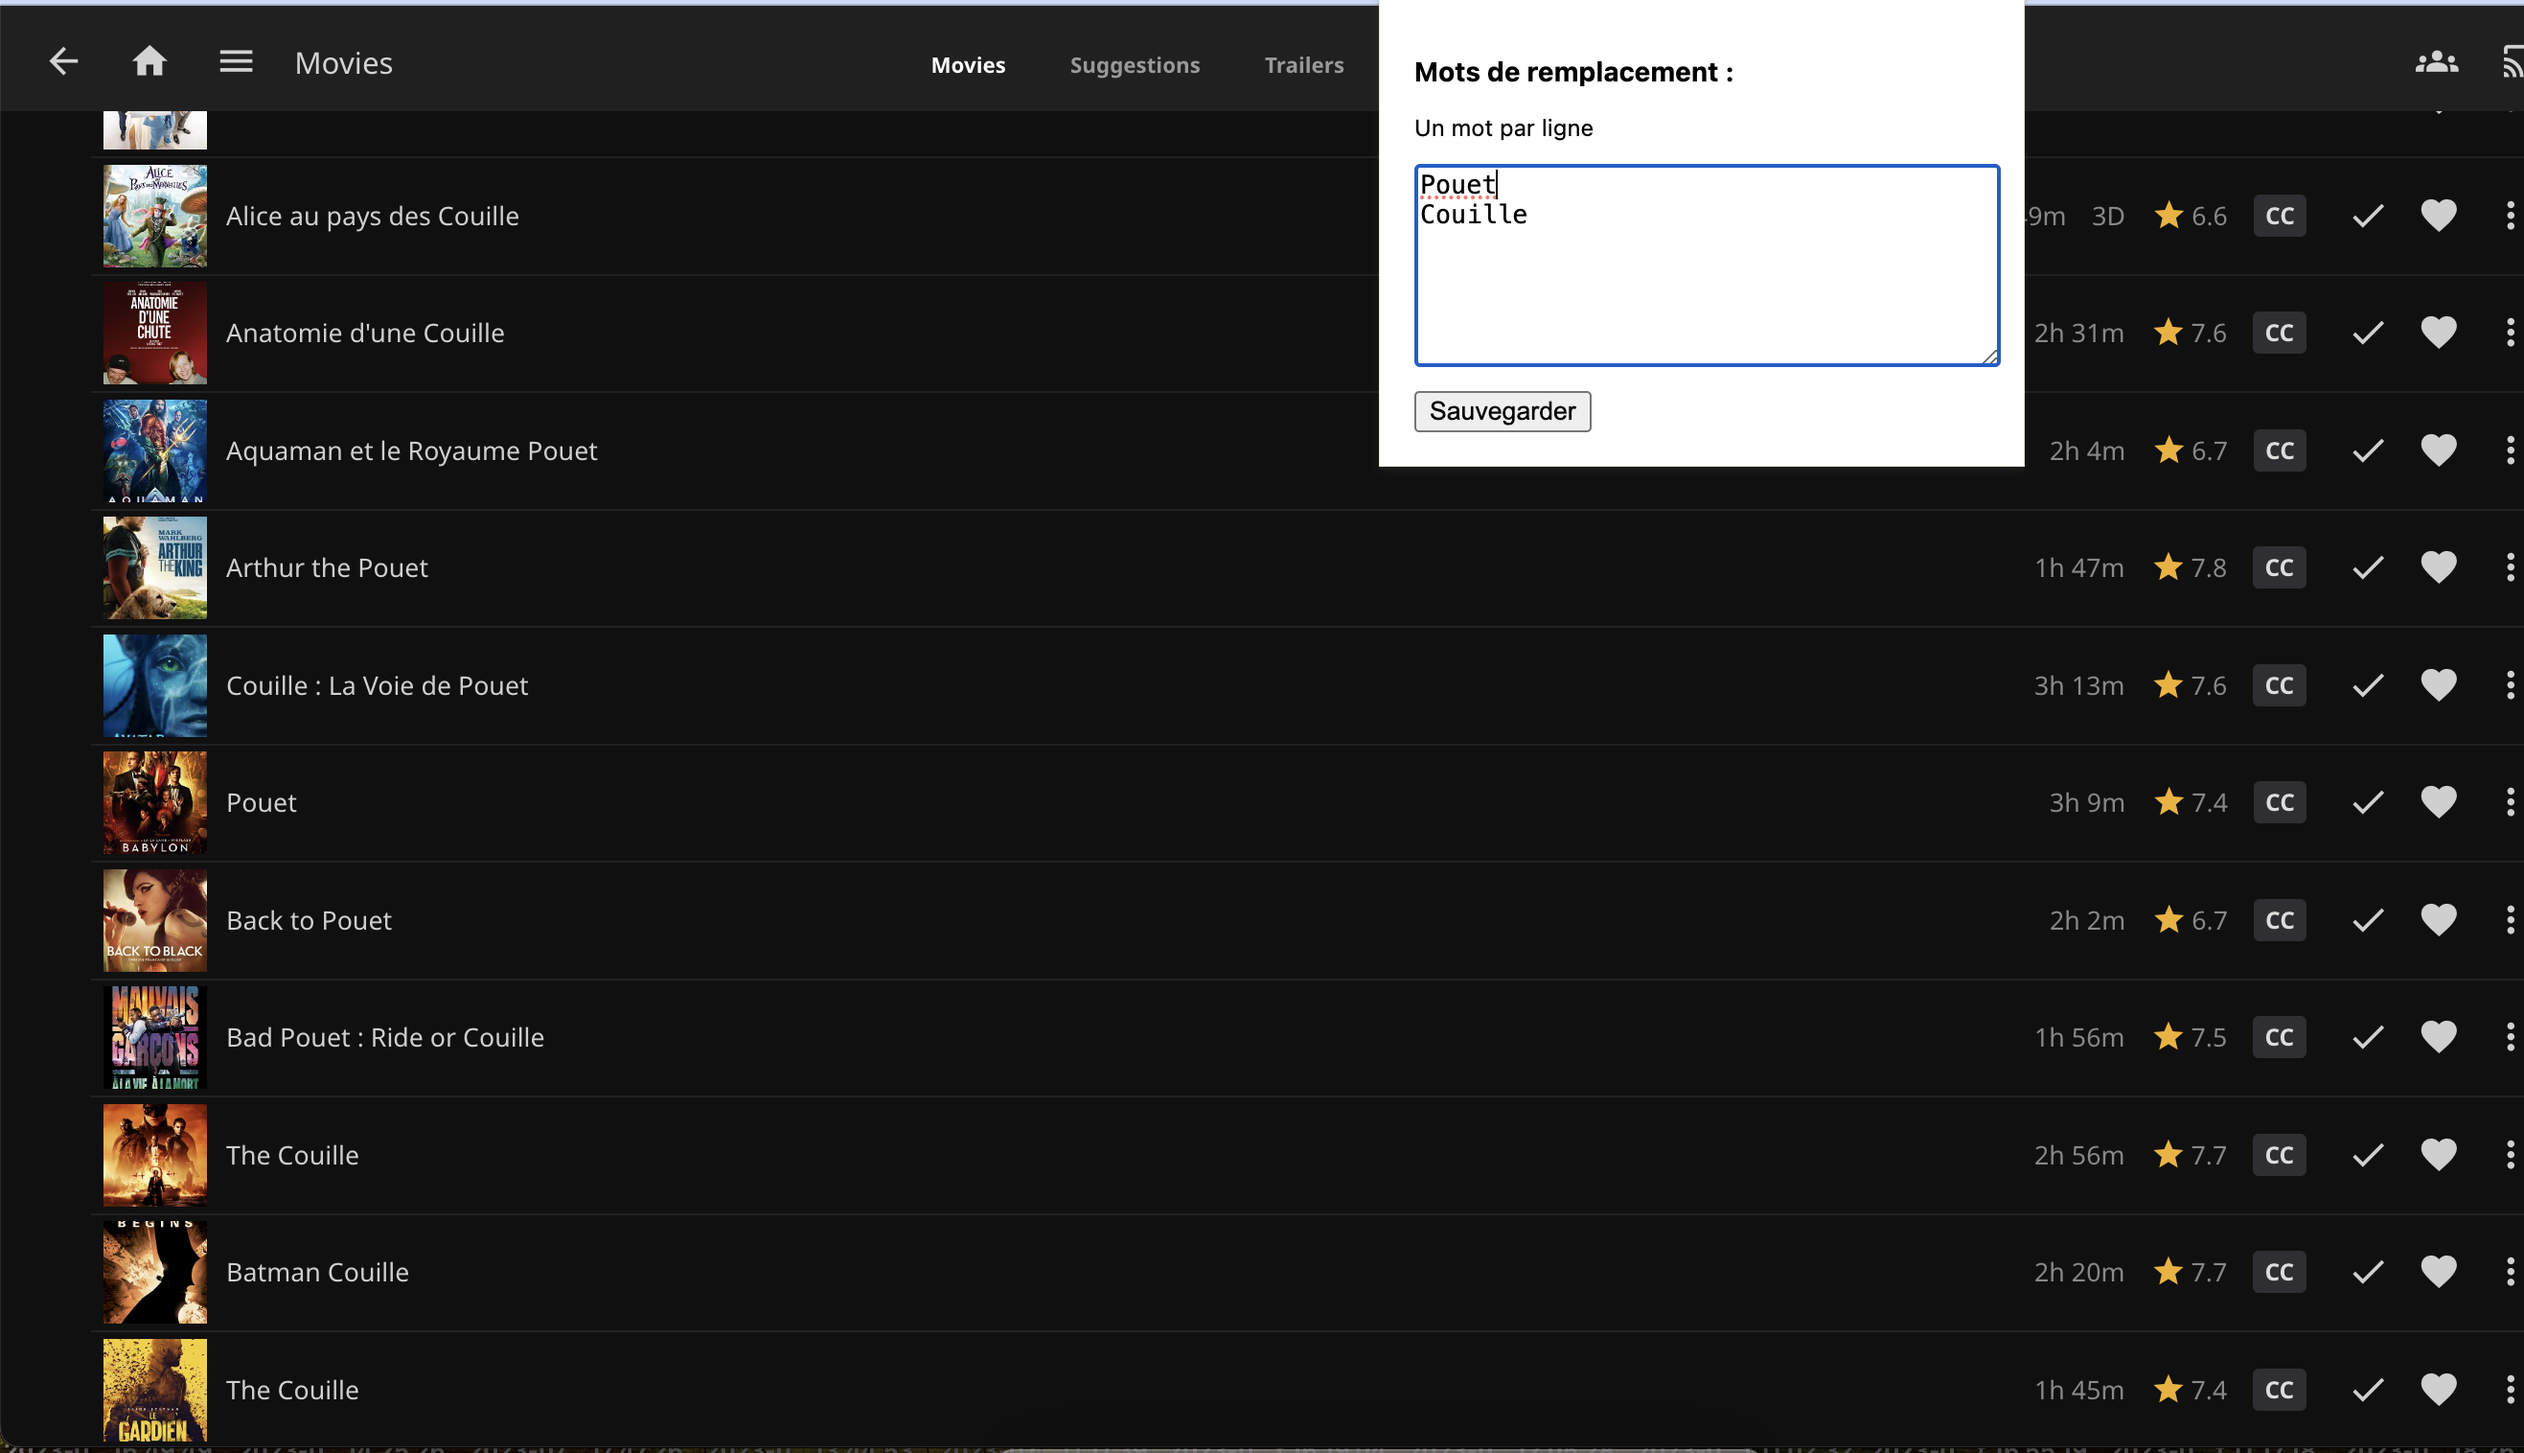
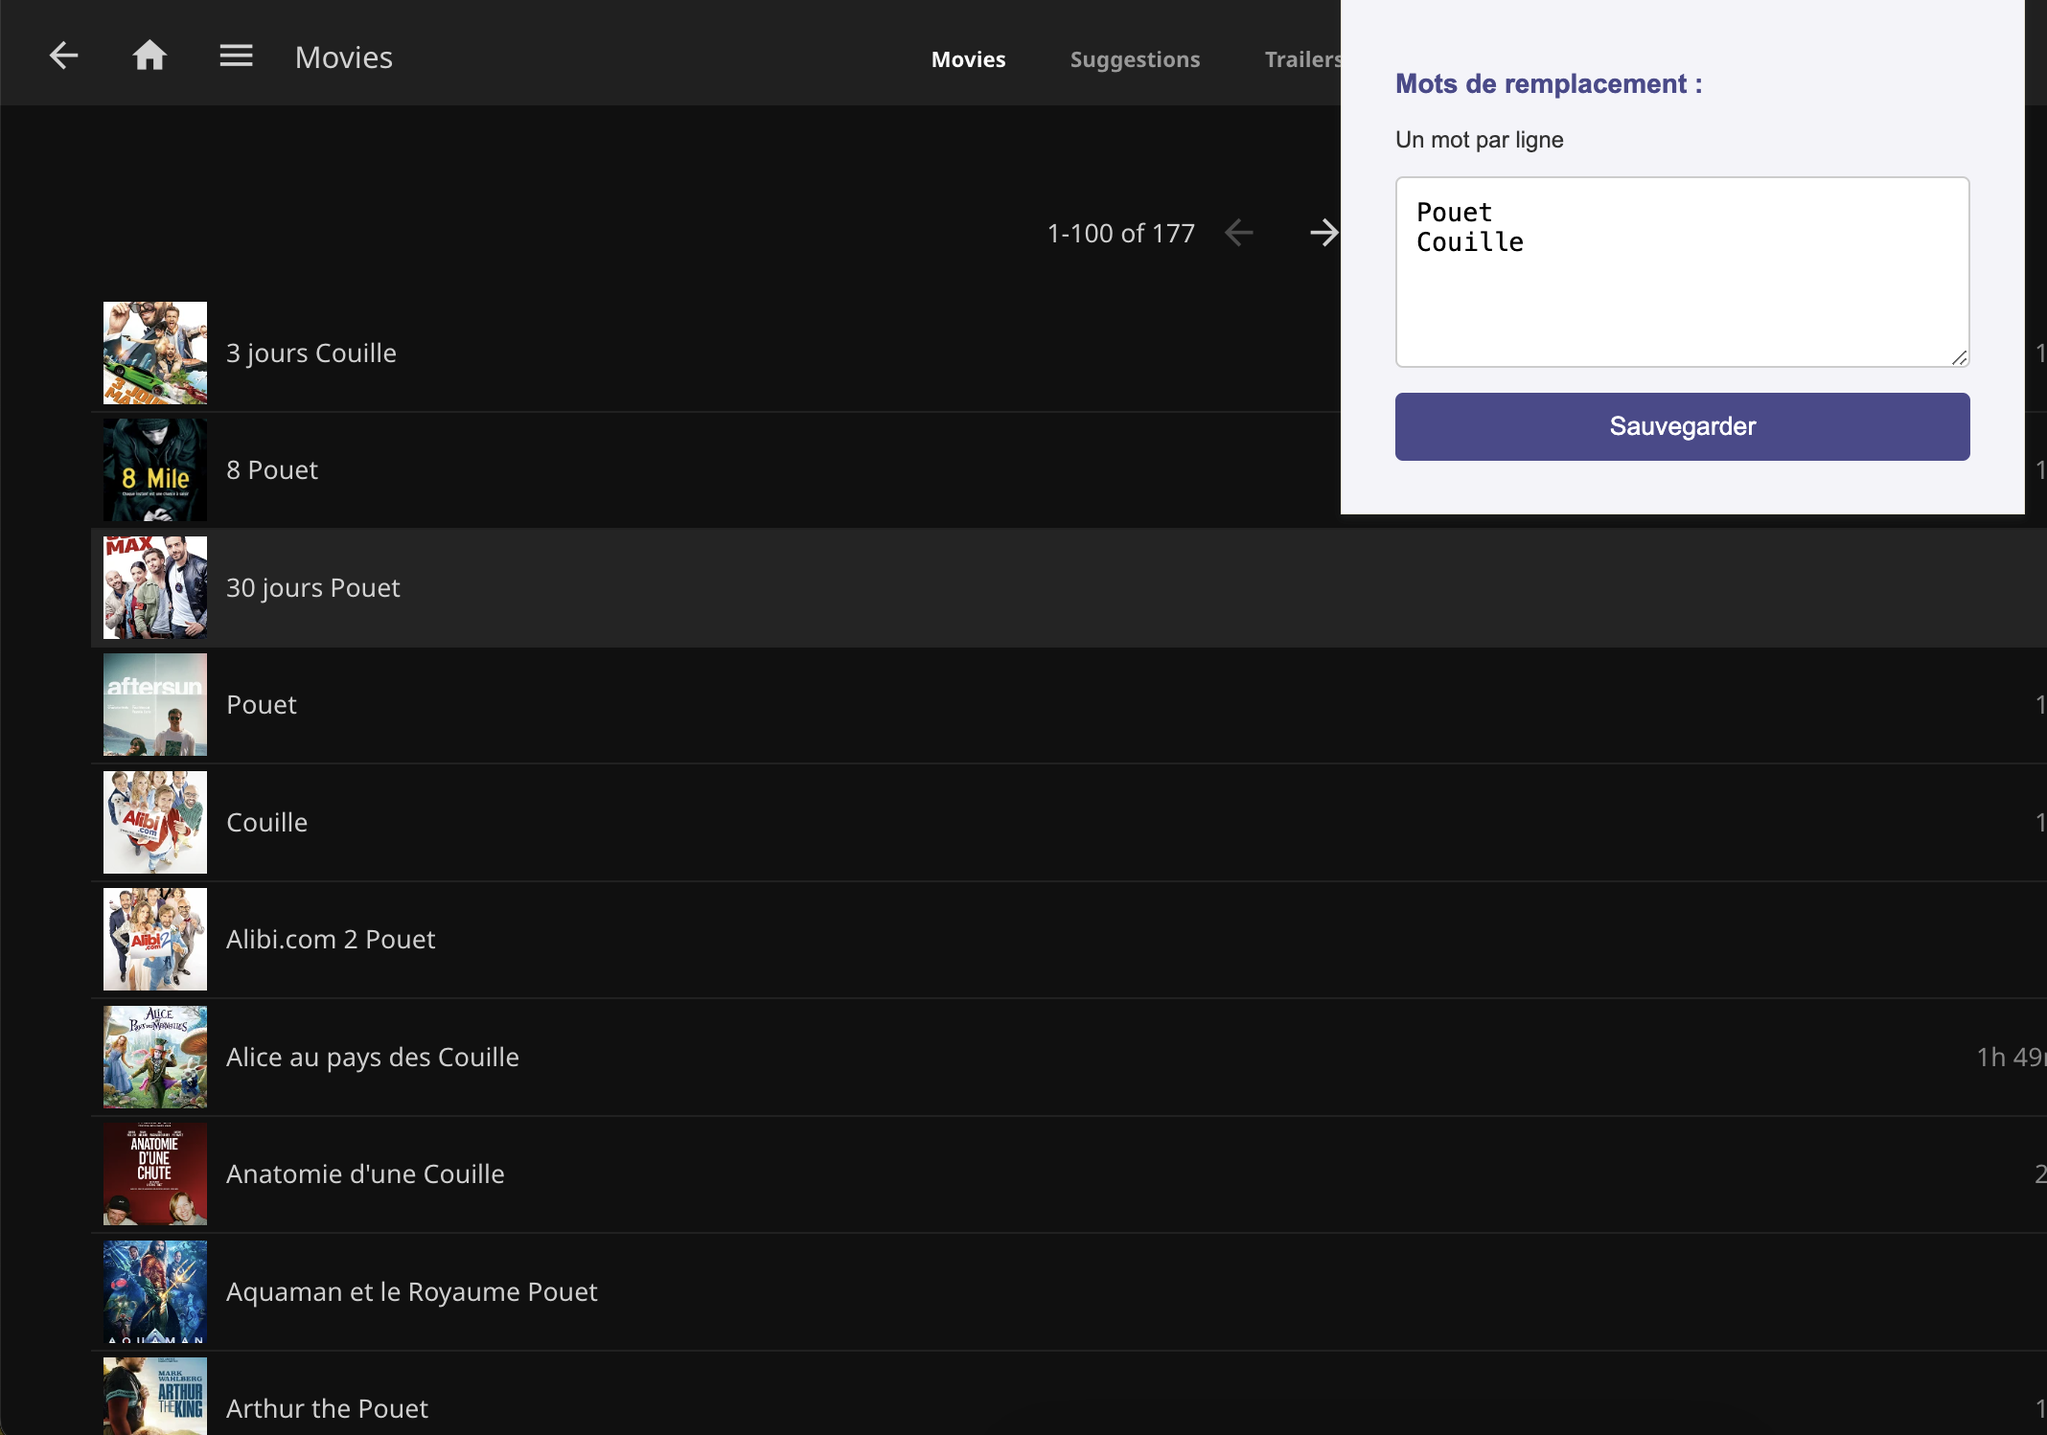
feat(popup): prettify the popup with some css

diff --git a/popup.html b/popup.html
@@ -2,8 +2,42 @@
 <html>
 <head>
   <style>
-    body { width: 300px; padding: 10px; }
-    textarea { width: 100%; height: 100px; margin-bottom: 10px; }
+    body {
+      width: 300px;
+      padding: 20px;
+      font-family: Arial, sans-serif;
+      background-color: #f4f4f9;
+      color: #333;
+    }
+    h3 {
+      color: #4a4a8c;
+    }
+    textarea {
+      width: 100%;
+      height: 100px;
+      margin-bottom: 10px;
+      border: 1px solid #ccc;
+      border-radius: 4px;
+      padding: 10px;
+      box-sizing: border-box;
+      transition: border-color 0.3s;
+    }
+    textarea:focus {
+      border-color: #4a4a8c;
+    }
+    button {
+      width: 100%;
+      padding: 10px;
+      background-color: #4a4a8c;
+      color: white;
+      border: none;
+      border-radius: 4px;
+      cursor: pointer;
+      transition: background-color 0.3s;
+    }
+    button:hover {
+      background-color: #3a3a6c;
+    }
   </style>
 </head>
 <body>

diff --git a/README.md b/README.md
@@ -8,7 +8,7 @@ JellyFin Title Modifier is a Chrome extension that replaces words in the titles 
 
 ![Example of modified titles](example.png)
 
-In this example, all titles have been modified with the word "couille".
+In this example, all titles have been modified with the words "couille" or "pouet".
 
 ## Features
 
